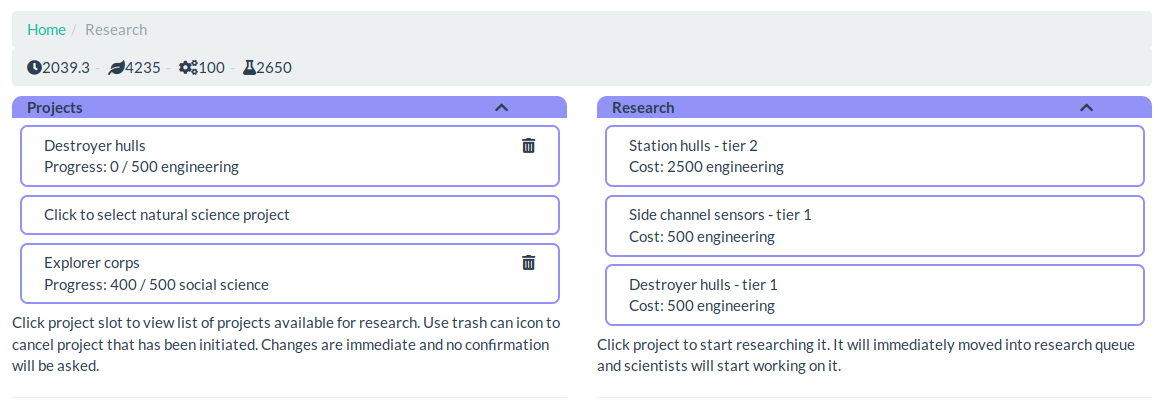
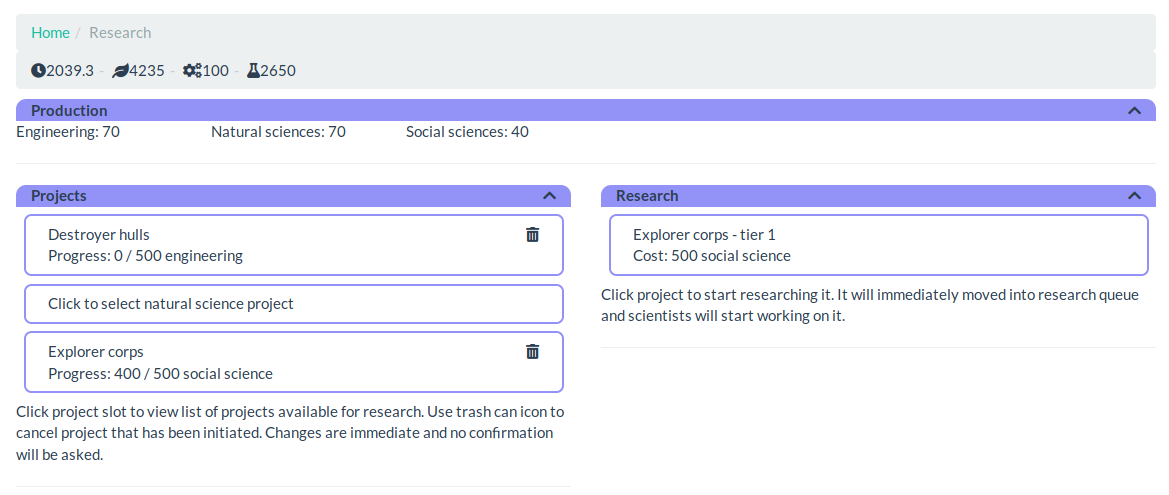
Show research production

Changed region(s): [[0.0, 0.1159, 0.9888, 0.9275], [0.0, 0.058, 0.1545, 0.087]]

diff --git a/docs/research.md b/docs/research.md
@@ -12,6 +12,13 @@ There are three different categories for research: engineering,
 natural sciences and social sciences. Each category has several different
 projects that can be reseached.
 
+Production
+----------
+
+Performing research requires research points. These are produced by various
+buildings. Total research point production is shown at the top of the
+screen.
+
 Projects
 --------
 
